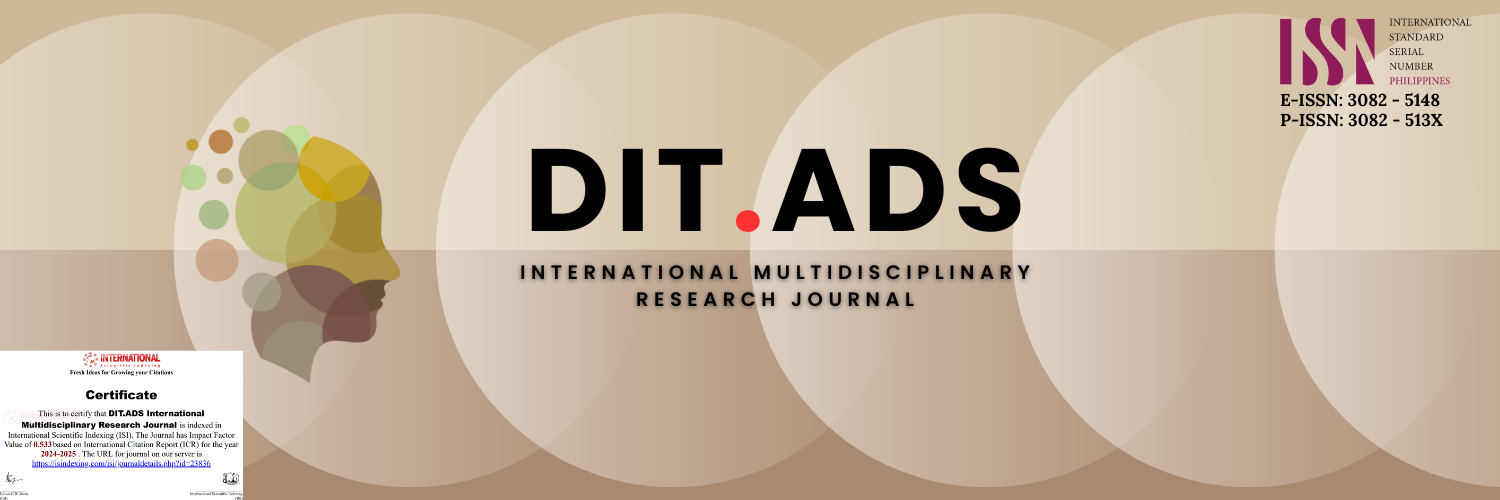
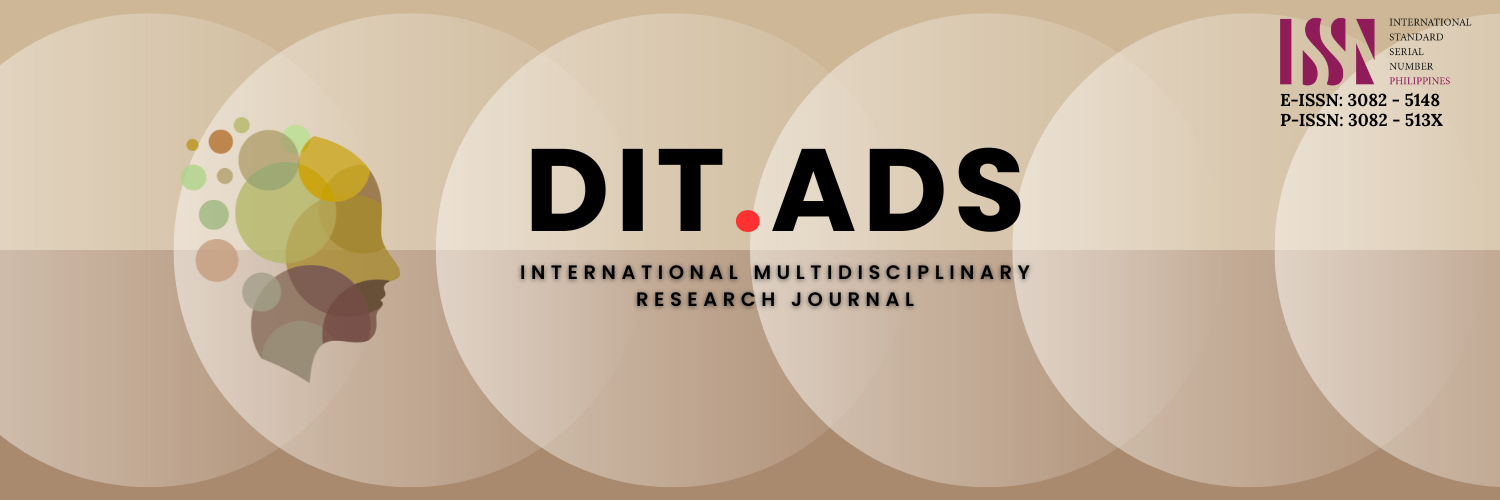
add list of certificates for journal

Changed region(s): [[0.0, 0.69, 0.184, 1.0]]

diff --git a/resources/js/pages/web/journal/certificate.jsx b/resources/js/pages/web/journal/certificate.jsx
@@ -1,0 +1,22 @@
+import ISI from "../../../../../public/images/certificates/isi.png";
+
+const images = [ISI];
+
+export default function Certificate() {
+    return (
+        <div className="grid sm:grid-cols-2 md:grid-cols-3 lg:grid-cols-4 gap-4">
+            {images.map((image, index) => (
+                <div
+                    key={index}
+                    className="size-full border p-4 flex items-center"
+                >
+                    <img
+                        src={image}
+                        alt={`certificate-${index}`}
+                        className="object-contain"
+                    />
+                </div>
+            ))}
+        </div>
+    );
+}

diff --git a/resources/js/pages/web/journal/layout.jsx b/resources/js/pages/web/journal/layout.jsx
@@ -16,6 +16,7 @@ import { usePage } from "@inertiajs/react";
 import AboutPublisher from "./about-publisher";
 import IndexAbstract from "./index-abstract";
 import Download from "./download";
+import Certificate from "./certificate";
 
 const banners = [JournalBanner];
 
@@ -42,6 +43,10 @@ export default function JournalLayout() {
         {
             title: "Downloads",
             page: Download,
+        },
+        {
+            title: "Certificates",
+            page: Certificate,
         },
         {
             title: "Review Process",

diff --git a/resources/js/pages/web/journal/index-abstract.jsx b/resources/js/pages/web/journal/index-abstract.jsx
@@ -47,8 +47,8 @@ export default function IndexAbstract() {
                 >
                     <img
                         src={image.name}
-                        alt="indexing"
-                        className="object-contain "
+                        alt={`indexing-${index}`}
+                        className="object-contain"
                     />
                 </a>
             ))}
